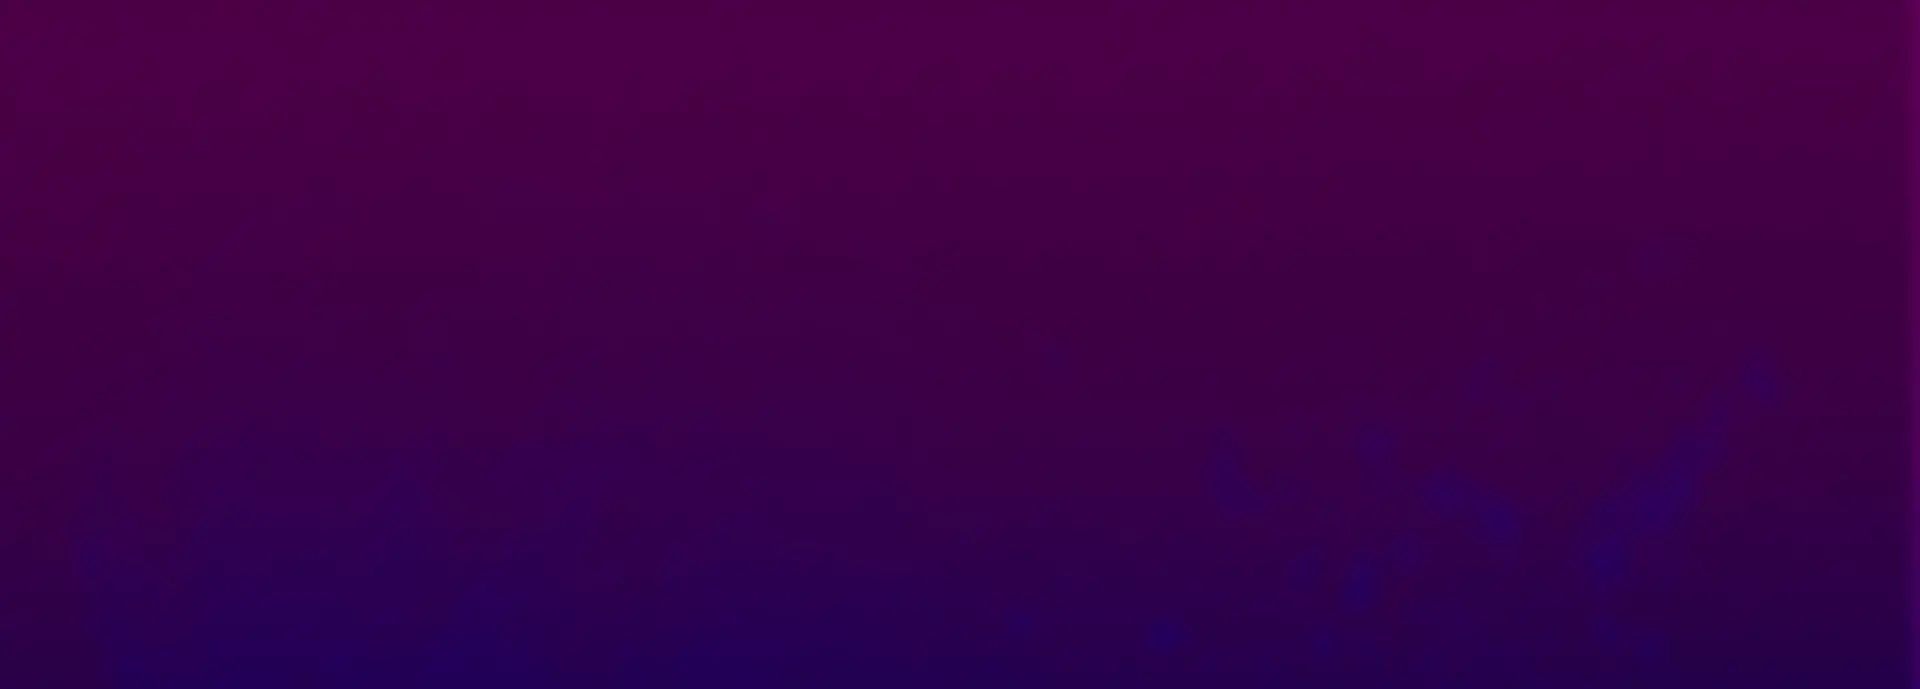
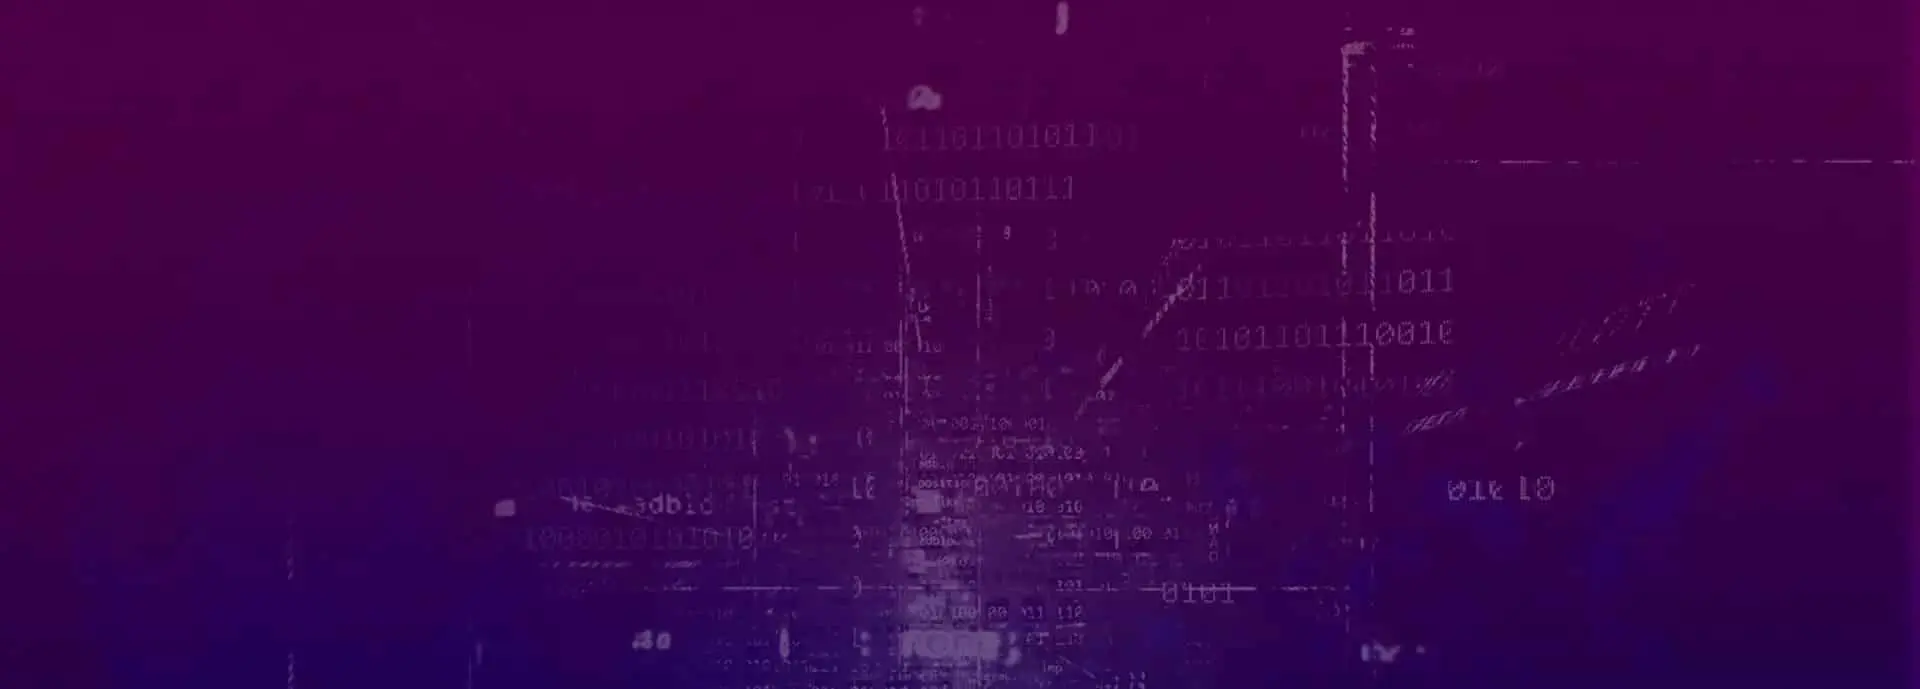
Fin header

diff --git a/index.html b/index.html
@@ -11,7 +11,11 @@
     <link rel="stylesheet" href="https://cdnjs.cloudflare.com/ajax/libs/font-awesome/6.7.2/css/all.min.css"/>
     <link rel="stylesheet" href="css/style.css"/>
     <link rel="icon" type="image/png" href="images/logo_krhacken_r.ico" />
-
+    
+    <link rel="preload" as="image" href="./images/header_background_blured3.webp" type="image/webp" fetchpriority="high">
+    <link rel="preconnect" href="https://cdnjs.cloudflare.com" crossorigin>
+    <link rel="preconnect" href="https://fonts.googleapis.com" crossorigin>
+    <link rel="preconnect" href="https://fonts.gstatic.com" crossorigin>
 </head>
 <body>
 
@@ -39,45 +43,8 @@
 
     
 
-    <section id="Projets" class="projects">
-        <div class="container">
-            <div class="project-grid">
-                <div class="project-card">
-                    <a href="">
-                        <img src="https://letsenhance.io/static/73136da51c245e80edc6ccfe44888a99/1015f/MainBefore.jpg" alt="Projet 1">
-                        <div class="project-info">
-                            <h3> Leçons </h3>
-                            <p> Pour apprendre ...</p>
-                        </div>
-                    </a>
-                </div>
-                <div class="project-card">
-                    <a href="">
-                        <div class="project-info">
-                            <h3> Projets </h3>
-                            <p> Pour en savoir un petit peu plus sur les projets..</p>
-                        </div>
-                        <img src="https://letsenhance.io/static/73136da51c245e80edc6ccfe44888a99/1015f/MainBefore.jpg" alt="Projet 2">
-                    </a>
-                </div>
-                <div class="project-card">
-                    <a href="">
-                        <img src="https://letsenhance.io/static/73136da51c245e80edc6ccfe44888a99/1015f/MainBefore.jpg" alt="Projet 2">
-                        <div class="project-info">
-                            <h3> Challenges </h3>
-                            <p> Venez tenter les défis </p>
-                        </div>
-                    </a>
-
-                </div>
-            </div>
-        </div>
-    </section>
-
-
-
-    <script src="https://cdnjs.cloudflare.com/ajax/libs/jquery/3.7.1/jquery.min.js"></script>
-    <script src="js/main.js"></script>
+    <script src="https://cdnjs.cloudflare.com/ajax/libs/jquery/3.7.1/jquery.min.js" defer></script>
+    <script src="js/main.js" defer></script>
 
 
 

diff --git a/lessons.html b/lessons.html
@@ -29,7 +29,40 @@
         </div>
     </header>
 
+    <section id="Projets" class="projects">
+        <div class="container">
+            <div class="project-grid">
+                <div class="project-card">
+                    <a href="">
+                        <img src="https://letsenhance.io/static/73136da51c245e80edc6ccfe44888a99/1015f/MainBefore.jpg" alt="Projet 1">
+                        <div class="project-info">
+                            <h2> Leçons </h2>
+                            <p> Pour apprendre ...</p>
+                        </div>
+                    </a>
+                </div>
+                <div class="project-card">
+                    <a href="">
+                        <div class="project-info">
+                            <h2> Projets </h2>
+                            <p> Pour en savoir un petit peu plus sur les projets..</p>
+                        </div>
+                        <img src="https://letsenhance.io/static/73136da51c245e80edc6ccfe44888a99/1015f/MainBefore.jpg" alt="Projet 2">
+                    </a>
+                </div>
+                <div class="project-card">
+                    <a href="">
+                        <img src="https://letsenhance.io/static/73136da51c245e80edc6ccfe44888a99/1015f/MainBefore.jpg" alt="Projet 2">
+                        <div class="project-info">
+                            <h2> Challenges </h2>
+                            <p> Venez tenter les défis </p>
+                        </div>
+                    </a>
 
+                </div>
+            </div>
+        </div>
+    </section>
 
     <script src="https://cdnjs.cloudflare.com/ajax/libs/jquery/3.7.1/jquery.min.js"></script>
     <script src="js/main.js"></script>

diff --git a/css/style.css b/css/style.css
@@ -36,10 +36,8 @@ body{
 /* --------- Section header ---------- */
 header {
     position: fixed;
-    background-image: 
-    url(../images/scratch_texture.webp),
-    url(../images/header_background_blured3.webp);
-    background-size: cover;
+    background-image: url(../images/header_background_blured3.webp);
+    background-size: 100% auto;    
     background-position: center;
     background-repeat: no-repeat;
     background-color: var(--violet);
@@ -152,7 +150,6 @@ header .fa-times{
 
     header .nav_bar ul{
         background-image: 
-        url(../images/scratch_texture.webp),
         url(../images/header_background_blured3.webp);
         background-size: cover;
         background-position: center;
@@ -224,7 +221,7 @@ header .fa-times{
     padding: 20px;
 }
 
-.project-info h3 {
+.project-info h2 {
     margin-bottom: 10px;
     font-size: 20px;
     color: #ddd; /* Couleur du texte du titre */
